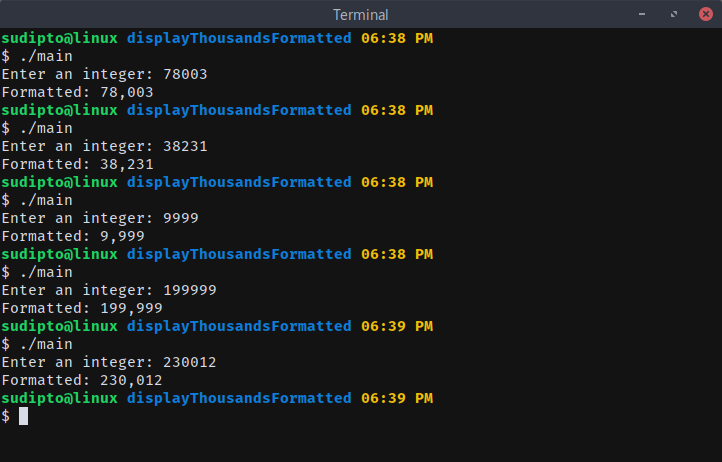
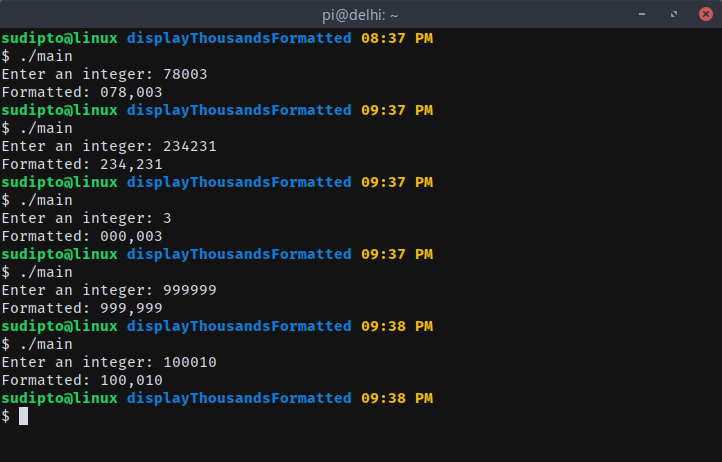
changed int to long

diff --git a/Year I/Semester I/C++/Other/17-08-2019/displayThousandsFormatted/main.cpp b/Year I/Semester I/C++/Other/17-08-2019/displayThousandsFormatted/main.cpp
@@ -3,13 +3,13 @@
 
 using namespace std;
 
-int getHundreds(int);
-int getThousands(int);
-void displayFormatted(int);
+int getHundreds(long);
+int getThousands(long);
+void displayFormatted(long);
 
 int main()
 {
-    int num;
+    long num;
 
     cout << "Enter an integer: ";
     cin >> num;
@@ -21,19 +21,20 @@ int main()
     return 0;
 }
 
-int getHundreds(int x)
+int getHundreds(long x)
 {
     return x % 1000;
 }
 
-int getThousands(int x)
+int getThousands(long x)
 {
     return x / 1000;
 }
 
-void displayFormatted(int x)
+void displayFormatted(long x)
 {
     cout << "Formatted: "
+         << setw(3) << setfill('0')
          << getThousands(x) << ','
          << setw(3) << setfill('0')
          << getHundreds(x);
